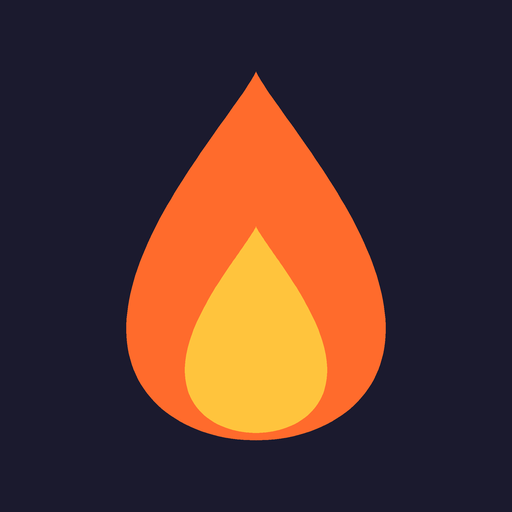
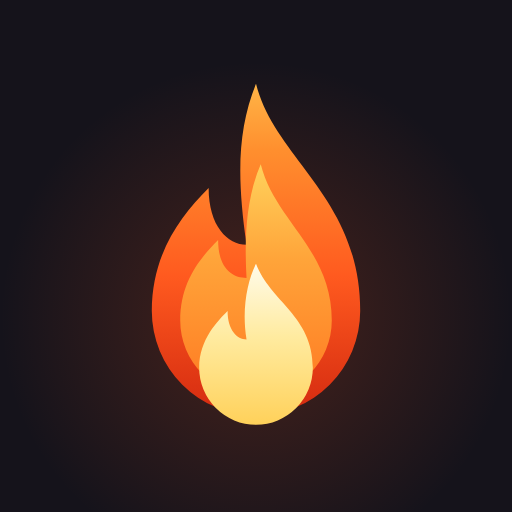
La llama crece con la racha (chica, normal, brillante desde 30 y con chispas desde 100); ícono de la app con la llama nueva
Claude-Session: https://claude.ai/code/session_01EqoeuDGc8rGHWCLtctuYMU

Changed region(s): [[0.2188, 0.1562, 0.7812, 0.875]]

diff --git a/index.html b/index.html
@@ -739,6 +739,9 @@ p,li{text-wrap:pretty}
 <linearGradient id="fl-out" x1="0" y1="1" x2="0" y2="0"><stop offset="0" stop-color="#D42A10"/><stop offset=".42" stop-color="#FF5A1F"/><stop offset=".8" stop-color="#FF8F2E"/><stop offset="1" stop-color="#FFB547"/></linearGradient>
 <linearGradient id="fl-mid" x1="0" y1="1" x2="0" y2="0"><stop offset="0" stop-color="#FF7A22"/><stop offset=".6" stop-color="#FFA53A"/><stop offset="1" stop-color="#FFD25C"/></linearGradient>
 <linearGradient id="fl-core" x1="0" y1="1" x2="0" y2="0"><stop offset="0" stop-color="#FFD15A"/><stop offset=".55" stop-color="#FFEBA0"/><stop offset="1" stop-color="#FFFBEA"/></linearGradient>
+<linearGradient id="fl-out-hot" x1="0" y1="1" x2="0" y2="0"><stop offset="0" stop-color="#E8361A"/><stop offset=".38" stop-color="#FF6A24"/><stop offset=".72" stop-color="#FFA23A"/><stop offset="1" stop-color="#FFD66B"/></linearGradient>
+<linearGradient id="fl-mid-hot" x1="0" y1="1" x2="0" y2="0"><stop offset="0" stop-color="#FF8F2E"/><stop offset=".55" stop-color="#FFC04D"/><stop offset="1" stop-color="#FFE89A"/></linearGradient>
+<linearGradient id="fl-core-hot" x1="0" y1="1" x2="0" y2="0"><stop offset="0" stop-color="#FFE48A"/><stop offset=".5" stop-color="#FFF6D2"/><stop offset="1" stop-color="#FFFFFF"/></linearGradient>
 <linearGradient id="fl-off" x1="0" y1="1" x2="0" y2="0"><stop offset="0" style="stop-color:var(--gray-flame)"/><stop offset="1" style="stop-color:var(--gray-flame-2)"/></linearGradient>
 <linearGradient id="fl-off2" x1="0" y1="1" x2="0" y2="0"><stop offset="0" style="stop-color:var(--gray-flame-2)"/><stop offset="1" style="stop-color:var(--gray-flame)"/></linearGradient>
 </defs></svg>
@@ -792,8 +795,13 @@ const daysLabel = (days) => {
 };
 
 // La llama en tres capas, cada una más luminosa hacia arriba (los degradés están una sola vez en el <body>).
-function flameSVG(on=true, cls=''){
-  return `<svg class="${cls}" viewBox="0 0 64 80" aria-hidden="true"><path d="M32 2c4 16 22 24 22 48a22 22 0 0 1-44 0c0-12 6-20 12-26 0 8 4 12 8 12C28 22 28 12 32 2z" fill="url(#${on ? 'fl-out' : 'fl-off'})"/>${on ? '<path d="M33 19c3 12 15 18 15 33a16 16 0 0 1-32 0c0-8 4-13 8-17 0 6 3 8 6 8C29.5 34 30 26 33 19z" fill="url(#fl-mid)"/>' : ''}<g class="inner-f"><path d="M32 40c3 8 12 11 12 22a12 12 0 0 1-24 0c0-6 4-10 6-12 0 4 2 6 4 6-1-6 0-12 2-16z" fill="url(#${on ? 'fl-core' : 'fl-off2'})"/></g></svg>`;
+// Con la racha, la llama crece: chica la primera semana, normal hasta 30, más brillante desde 30 y con chispas desde 100.
+const flameTier = (n) => n == null ? 2 : n < 7 ? 1 : n < 30 ? 2 : n < 100 ? 3 : 4;
+function flameSVG(on=true, cls='', streak=null){
+  const t = on ? flameTier(streak) : 2, hot = t >= 3;
+  const body = `<path d="M32 2c4 16 22 24 22 48a22 22 0 0 1-44 0c0-12 6-20 12-26 0 8 4 12 8 12C28 22 28 12 32 2z" fill="url(#${on ? (hot ? 'fl-out-hot' : 'fl-out') : 'fl-off'})"/>${on ? `<path d="M33 19c3 12 15 18 15 33a16 16 0 0 1-32 0c0-8 4-13 8-17 0 6 3 8 6 8C29.5 34 30 26 33 19z" fill="url(#${hot ? 'fl-mid-hot' : 'fl-mid'})"/>` : ''}<g class="inner-f"><path d="M32 40c3 8 12 11 12 22a12 12 0 0 1-24 0c0-6 4-10 6-12 0 4 2 6 4 6-1-6 0-12 2-16z" fill="url(#${on ? (hot ? 'fl-core-hot' : 'fl-core') : 'fl-off2'})"/></g>`;
+  const sparks = t === 4 ? '<g fill="#FFD25C"><circle cx="52" cy="12" r="2.4"/><circle cx="12" cy="20" r="1.8"/><circle cx="46" cy="3.5" r="1.5" fill="#FFF3C4"/></g>' : '';
+  return `<svg class="${cls}${on ? ` fl-t${t}` : ''}" viewBox="0 0 64 80" aria-hidden="true">${t === 1 ? `<g transform="translate(32 76) scale(.8) translate(-32 -76)">${body}</g>` : body}${sparks}</svg>`;
 }
 const ICONS = {
   hoy: '<svg viewBox="0 0 24 24" fill="none" stroke="currentColor" stroke-width="2.2" stroke-linecap="round" stroke-linejoin="round"><path d="M12 2c1.5 5 7 7.5 7 13.5a7 7 0 0 1-14 0c0-3.5 2-6 3.8-7.8 0 2.4 1.2 3.6 2.4 3.6C10.6 7.6 11 4.8 12 2z"/></svg>',
@@ -1847,7 +1855,7 @@ function renderStatus(){
   el.innerHTML = `<div class="inner">
     <button class="st-av" id="st-av" aria-label="${a && a.hatched ? 'Tu avatar: abrir la tienda' : 'Tu huevito'}">${a && a.hatched ? userAv(S.me.user.nick, S.me.user.avatar, 34) : `<span class="st-egg">${eggSVG(a ? a.fed : 0)}</span>`}</button>
     <div class="st-right">
-      <button class="st-pill ${f && f.done_today ? 'on' : ''}" id="st-fire" aria-label="Tus rachas">${flameSVG(!!(f && f.done_today), 'st-flame')}<b>${f ? f.streak : 0}</b></button>
+      <button class="st-pill ${f && f.done_today ? 'on' : ''}" id="st-fire" aria-label="Tus rachas">${flameSVG(!!(f && f.done_today), 'st-flame', f && f.streak)}<b>${f ? f.streak : 0}</b></button>
       <button class="st-pill gem" id="st-gem" aria-label="Diamantes: abrir la tienda">${GEM_SVG}<b>${a ? a.coins ?? 0 : '–'}</b></button>
     </div></div>`;
   $('#st-av', el).onclick = () => { if (a && a.hatched) shopSheet('p'); else if (a) toast(`Tu huevito nace con ${a.need - a.fed === 1 ? '1 día más' : `${a.need - a.fed} días más`} con fueguito 🥚`, 3000); };
@@ -1861,7 +1869,7 @@ function streaksSheet(){
     <p class="muted small" style="margin:4px 0 12px">En los grupos se ve un solo fueguito tuyo. Elegí cuál: si es un hábito privado, se ve el número sin decir de qué.</p>
     <div class="card">${hs.map(h => `<div class="hrow">
       <button class="row" style="gap:10px;flex:1;text-align:left;background:none;border:0;padding:0;font:inherit;color:inherit" data-sh-cal="${h.id}">
-        <span class="mini-flame ${h.done_today ? '' : 'off'}">${flameSVG(h.done_today)}</span>
+        <span class="mini-flame ${h.done_today ? '' : 'off'}">${flameSVG(h.done_today, '', h.streak)}</span>
         <span><b>${esc(h.name)}</b> ${esc(h.emoji)}${h.private ? ' 🔒' : ''}<span class="small muted" style="display:block">${h.streak} ${h.streak === 1 ? 'día' : 'días'} · récord ${h.best || h.streak}</span></span></button>
       <button class="chip ${f && f.id === h.id ? 'on' : ''}" data-sh-show="${h.id}" style="margin:0">${f && f.id === h.id ? '✓ En grupos' : 'Mostrar'}</button></div>`).join('') || '<p class="muted" style="margin:0">Todavía no tenés hábitos con racha.</p>'}</div>
     <div class="stack section"><button class="btn ice" id="sh-calendar">📅 Ver mi calendario</button><button class="btn ghost" data-close-sheet>Listo</button></div>`);
@@ -1878,7 +1886,7 @@ function streaksSheet(){
 /* ============ Estructura principal ============ */
 const ICON_GEAR = '<svg viewBox="0 0 24 24" width="20" height="20" fill="none" stroke="currentColor" stroke-width="2.2" stroke-linecap="round" stroke-linejoin="round" aria-hidden="true"><circle cx="12" cy="12" r="3"/><path d="M19.4 15a1.7 1.7 0 0 0 .3 1.8l.1.1a2 2 0 1 1-2.8 2.8l-.1-.1a1.7 1.7 0 0 0-1.8-.3 1.7 1.7 0 0 0-1 1.5V21a2 2 0 1 1-4 0v-.1a1.7 1.7 0 0 0-1.1-1.5 1.7 1.7 0 0 0-1.8.3l-.1.1a2 2 0 1 1-2.8-2.8l.1-.1a1.7 1.7 0 0 0 .3-1.8 1.7 1.7 0 0 0-1.5-1H3a2 2 0 1 1 0-4h.1a1.7 1.7 0 0 0 1.5-1.1 1.7 1.7 0 0 0-.3-1.8l-.1-.1a2 2 0 1 1 2.8-2.8l.1.1a1.7 1.7 0 0 0 1.8.3H9a1.7 1.7 0 0 0 1-1.5V3a2 2 0 1 1 4 0v.1a1.7 1.7 0 0 0 1 1.5 1.7 1.7 0 0 0 1.8-.3l.1-.1a2 2 0 1 1 2.8 2.8l-.1.1a1.7 1.7 0 0 0-.3 1.8V9a1.7 1.7 0 0 0 1.5 1H21a2 2 0 1 1 0 4h-.1a1.7 1.7 0 0 0-1.5 1z"/></svg>';
 const ICON_INVITE = '<svg viewBox="0 0 24 24" width="20" height="20" fill="none" stroke="currentColor" stroke-width="2.2" stroke-linecap="round" stroke-linejoin="round" aria-hidden="true"><path d="M16 21v-2a4 4 0 0 0-4-4H6a4 4 0 0 0-4 4v2"/><circle cx="9" cy="7" r="4"/><path d="M19 8v6M22 11h-6"/></svg>';
-const APP_VERSION = 'v69'; // va junto con CACHE en sw.js: se suben juntos en cada versión
+const APP_VERSION = 'v70'; // va junto con CACHE en sw.js: se suben juntos en cada versión
 // Torneos ya no tiene pestaña propia: se entra desde el grupo, así que en la barra queda marcado Grupo.
 const navTab = () => S.tab === 'torneos' ? 'grupo' : S.tab;
 const TAB_NAMES = { hoy: 'Hoy', grupo: 'Amigos', torneos: 'Torneos', rutinas: 'Rutinas', perfil: 'Perfil' };
@@ -1926,7 +1934,7 @@ function scoreboard(hs){
   const ign = (h) => { const e = now - (S.ignAt[h.id] || 0); return h.done_today && e < 750 ? ` ignite" style="animation-delay:-${e}ms` : ''; };
   return `<div class="score ${full ? 'full' : ''}" role="img" aria-label="Hoy: ${lit.length} de ${req.length} hábitos anotados">
     <div class="scorenum" aria-hidden="true"><b class="num">${lit.length}</b><span class="num of">/${req.length}</span></div>
-    <div class="brasas" aria-hidden="true">${req.map(h => `<span class="brasa ${h.done_today ? 'on' : ''}${ign(h)}">${flameSVG(h.done_today)}</span>`).join('')}</div>
+    <div class="brasas" aria-hidden="true">${req.map(h => `<span class="brasa ${h.done_today ? 'on' : ''}${ign(h)}">${flameSVG(h.done_today, '', h.streak)}</span>`).join('')}</div>
     <div class="scorecap">${full ? 'Día completo' : lit.length ? (lit.length === 1 ? 'prendido hoy' : 'prendidos hoy') : 'Todavía no prendiste ninguno hoy'}</div>
   </div>`;
 }
@@ -3160,7 +3168,7 @@ function celebrate(results){
   const earned = results.filter(r => r.earned_ice);
   const layer = $('#layer');
   layer.innerHTML = `<div class="party" role="dialog" aria-modal="true" aria-label="Racha extendida">
-    ${flameSVG(true, 'bigflame')}
+    ${flameSVG(true, 'bigflame', main.streak)}
     <div class="count" id="cnt">${Math.max(0, main.streak - 1)}</div>
     <div class="lbl">${main.streak === 1 ? 'día de racha' : 'días de racha'} de ${esc(main.name)}</div>
     ${(() => { const pb = (S.prevBest || {})[main.habit_id] || 0;
@@ -4250,7 +4258,7 @@ function memberFire(m){
   if (m.is_me){ const h = mainFire(); f = h && { streak: h.streak, done_today: h.done_today, any_today: S.me.habits.some(x => x.done_today && x.kind === 'hacer'), name: h.private ? null : h.name, emoji: h.private ? null : h.emoji }; }
   if (!f) return '<span class="small muted">Sin hábitos</span>';
   const lit = !!(f.done_today || f.any_today); // prendido si hoy anotó algo, aunque sea privado
-  return `<span class="mfire ${lit ? 'on' : ''}" title="${lit ? 'Anotó hoy' : 'Todavía no anotó hoy'}">${flameSVG(lit, 'mf-flame')}<b>${f.streak}</b></span>`;
+  return `<span class="mfire ${lit ? 'on' : ''}" title="${lit ? 'Anotó hoy' : 'Todavía no anotó hoy'}">${flameSVG(lit, 'mf-flame', f.streak)}<b>${f.streak}</b></span>`;
 }
 function memberRow(m){
   return `<div class="member" role="button" tabindex="0" data-member="${m.id}" aria-label="Ver a ${esc(m.nick)}">

diff --git a/sw.js b/sw.js
@@ -1,5 +1,5 @@
 // Service worker: deja la app instalable y abre rápido aunque haya mala señal.
-const CACHE = 'fueguitos-v69';
+const CACHE = 'fueguitos-v70';
 const SHELL = ['./', './index.html', './manifest.webmanifest', './icons/icon-192.png', './icons/icon-512.png', './icons/apple-touch-icon.png', './icons/favicon.png'];
 
 self.addEventListener('install', (e) => {
